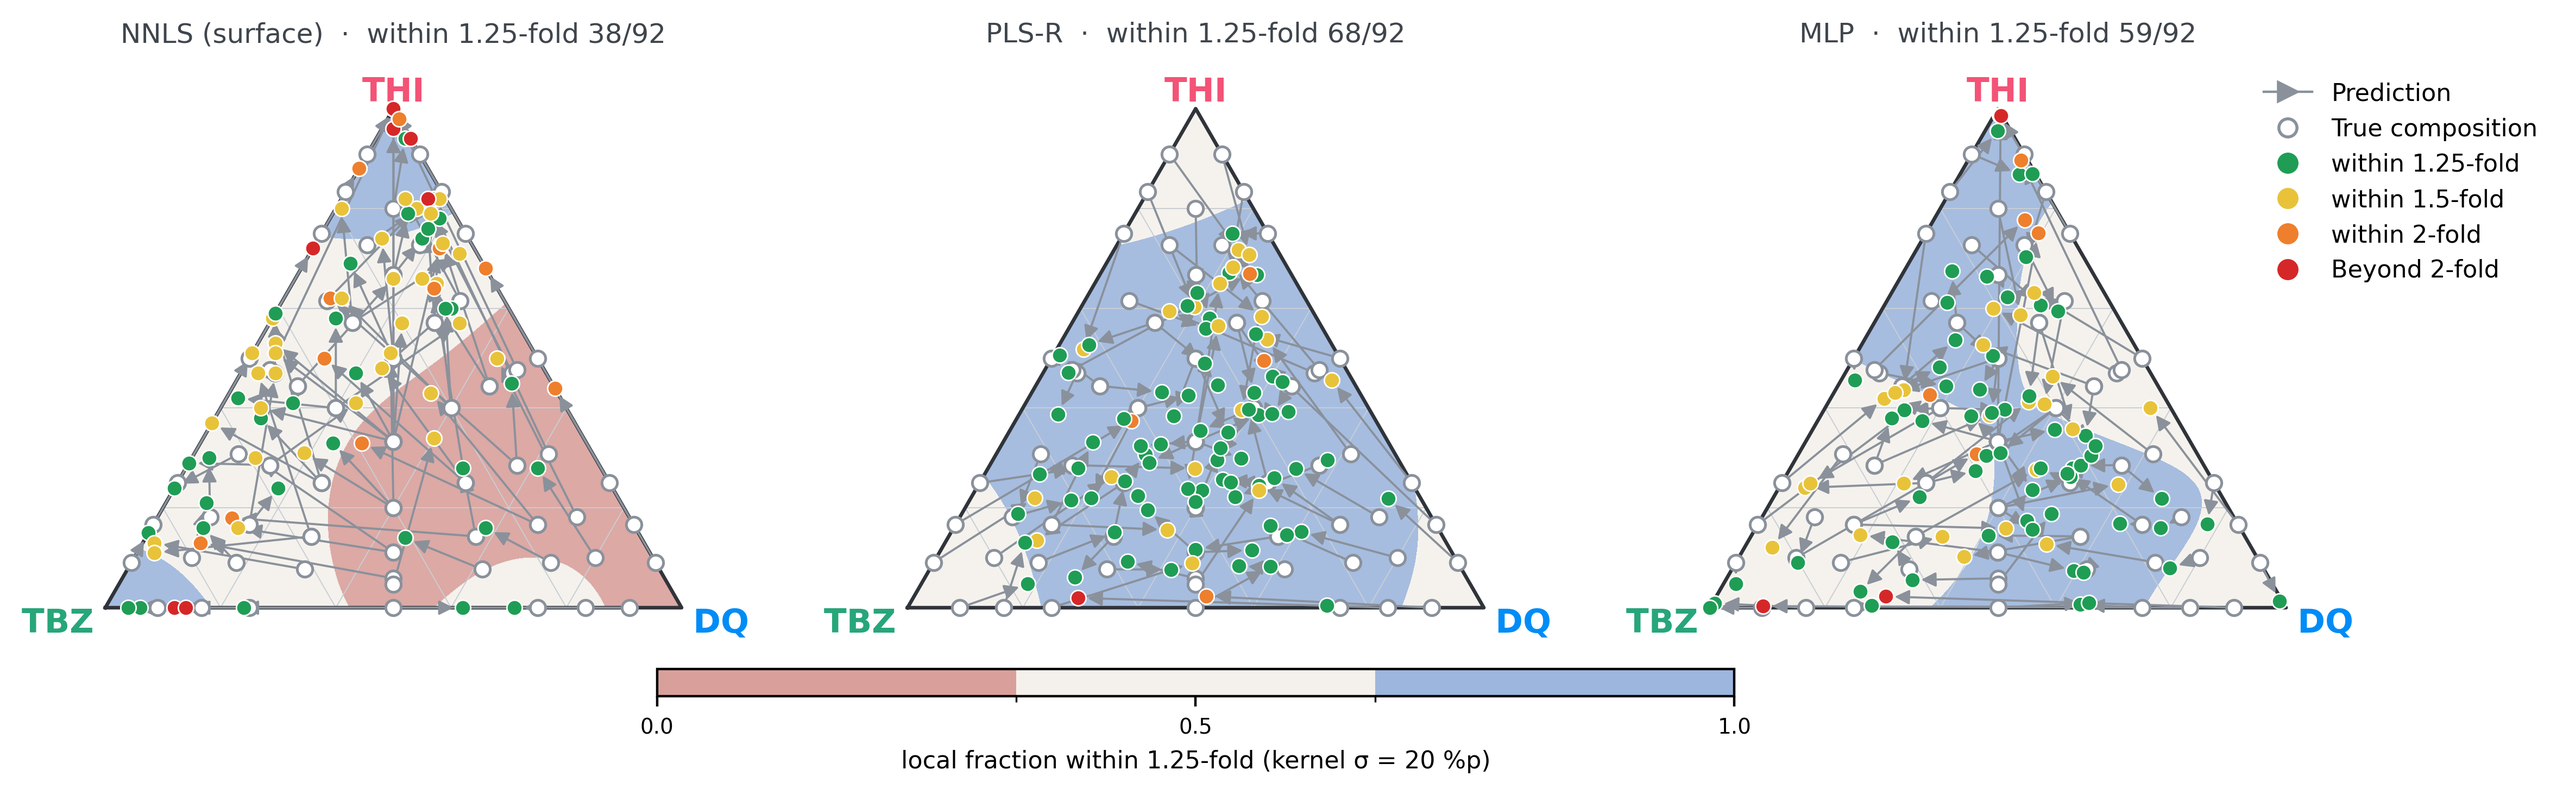
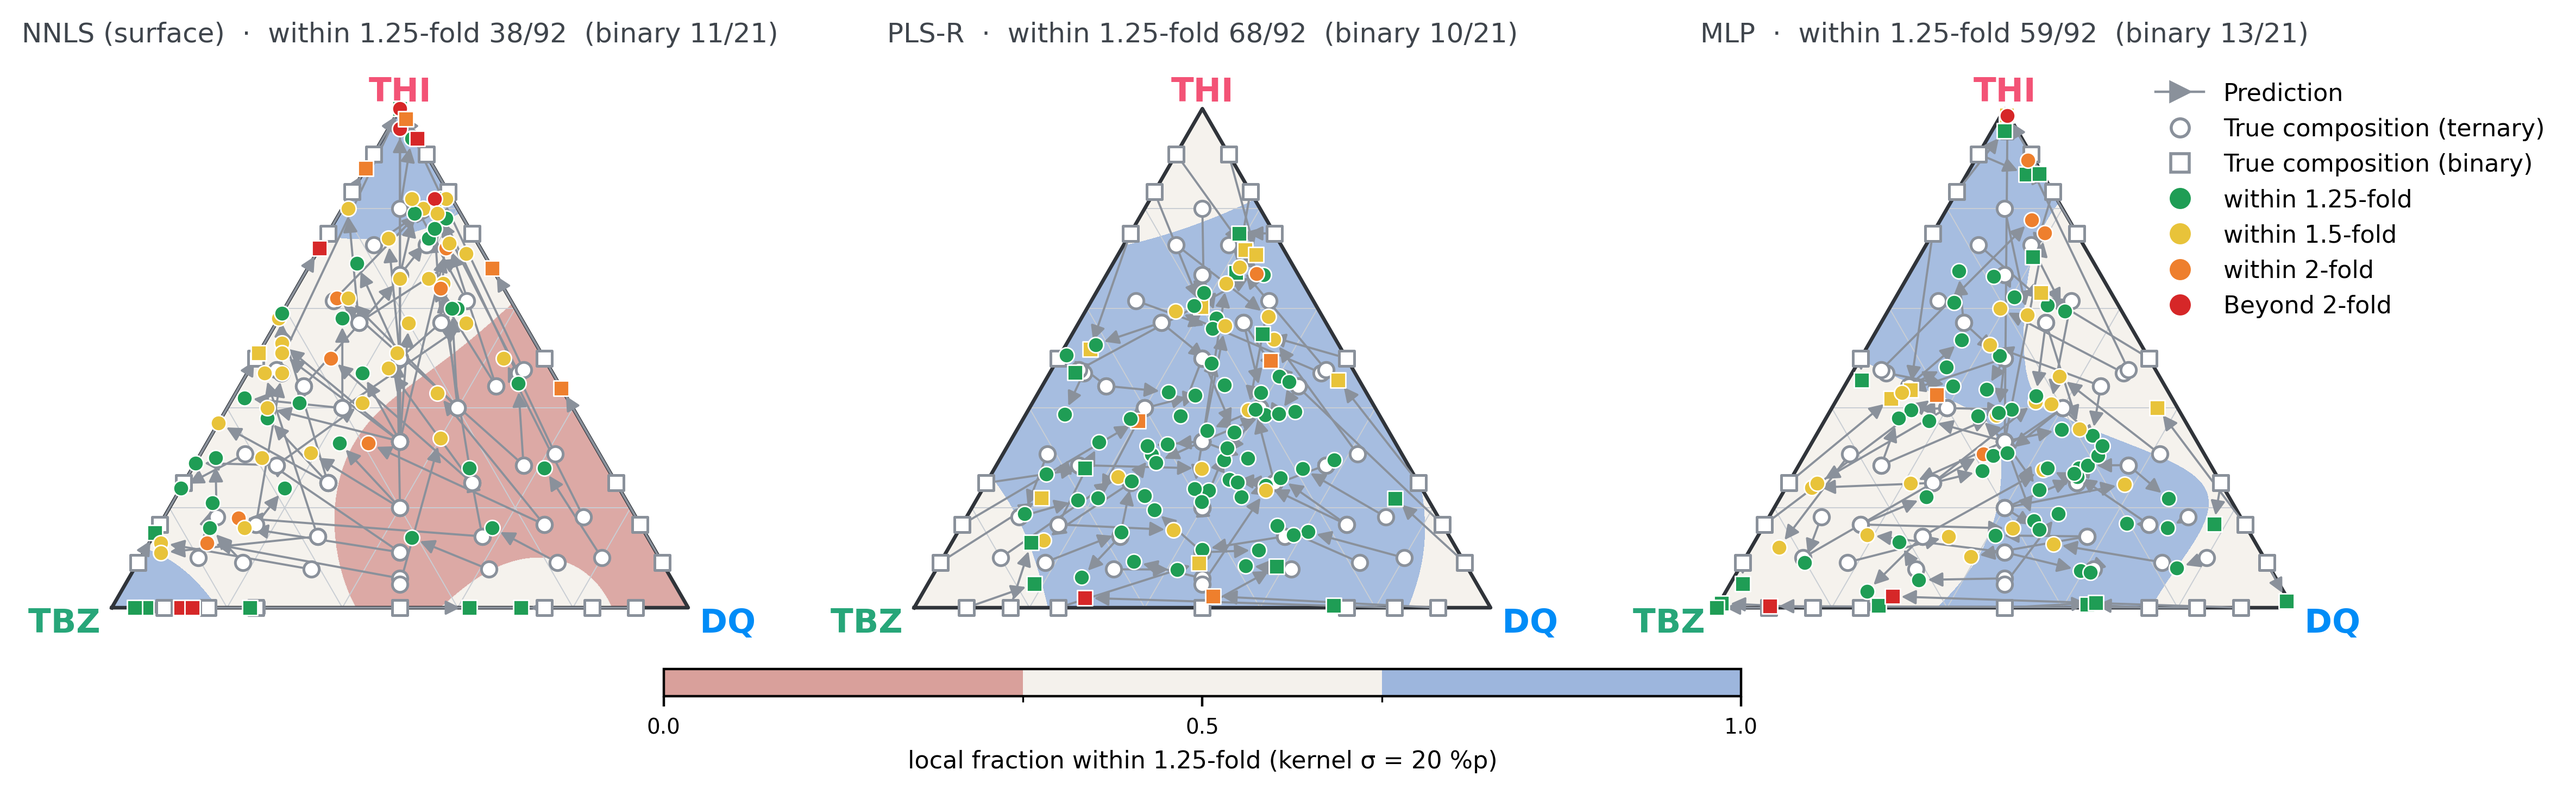
27g: binary conditions drawn as squares, per-panel binary tally in the title

diff --git a/documentation/scripts/fig27g_ternary_rb_background.py b/documentation/scripts/fig27g_ternary_rb_background.py
@@ -55,7 +55,8 @@ def load_pairs(method):
         if r["type"] == "true":
             cur = [r["condition"], np.array([float(r["DQ_pct_X"]), float(r["TBZ_pct_Y"]),
                                              float(r["THI_pct_Z"])]), None,
-                   float(r["accuracy"]) if r.get("accuracy", "").strip() else float("nan")]
+                   float(r["accuracy"]) if r.get("accuracy", "").strip() else float("nan"),
+                   r.get("subset", "").strip()]
         elif r["type"] == "pred" and cur is not None:
             cur[2] = np.array([float(r["DQ_pct_X"]), float(r["TBZ_pct_Y"]),
                                float(r["THI_pct_Z"])])
@@ -101,8 +102,8 @@ def field(pairs, sigma):
     grid = [(d, t, 100 - d - t) for d in np.arange(0, 100 + step, step)
             for t in np.arange(0, 100 + step - d, step)]
     G = np.array(grid, float)
-    T = np.array([t for _, t, _, _ in pairs])
-    C = np.array([1.0 if band(t, p, a) <= CORRECT_BAND else 0.0 for _, t, p, a in pairs])
+    T = np.array([t for _, t, _, _, _ in pairs])
+    C = np.array([1.0 if band(t, p, a) <= CORRECT_BAND else 0.0 for _, t, p, a, _ in pairs])
     d2 = ((G[:, None, :] - T[None, :, :]) ** 2).sum(-1)
     w = np.exp(-0.5 * d2 / sigma ** 2)
     dens = w.sum(1)
@@ -132,14 +133,15 @@ def draw(ax, method, pairs, sigma, title):
                      ((0, 100 - k, k), (100 - k, 0, k))):
             x, y = to_xy(np.array([a, b], float))
             ax.plot(x, y, color="#c9ced4", lw=0.35, zorder=1)
-    for _, t, p, acc in pairs:
+    for _, t, p, acc, sub in pairs:
         tx, ty = to_xy(t); px, py = to_xy(p)
+        mk = "s" if sub == "binary" else "o"          # binary(부재 성분 있음) = 사각
         ax.annotate("", xy=(px, py), xytext=(tx, ty),
                     arrowprops=dict(arrowstyle="-|>", color="#8a919b", lw=0.7,
                                     shrinkA=3, shrinkB=3), zorder=4)
-        ax.scatter([tx], [ty], s=26, facecolor="white", edgecolor="#8a919b",
+        ax.scatter([tx], [ty], s=26, marker=mk, facecolor="white", edgecolor="#8a919b",
                    linewidth=0.9, zorder=5)
-        ax.scatter([px], [py], s=26, color=BAND_COLORS[band(t, p, acc)],
+        ax.scatter([px], [py], s=26, marker=mk, color=BAND_COLORS[band(t, p, acc)],
                    edgecolor="white", linewidth=0.5, zorder=6)
     ax.text(*to_xy(np.array([0, 0, 100.0])), "THI", color=CO["THI"], ha="center",
             va="bottom", fontsize=11, weight="bold")
@@ -147,8 +149,11 @@ def draw(ax, method, pairs, sigma, title):
             va="top", fontsize=11, weight="bold")
     ax.text(*to_xy(np.array([100.0, 0, 0])), " DQ", color=CO["DQ"], ha="left",
             va="top", fontsize=11, weight="bold")
-    ok = sum(band(t, p, a) <= CORRECT_BAND for _, t, p, a in pairs)
-    ax.set_title(f"{title}  ·  within {BAND_LABEL[CORRECT_BAND]} {ok}/{len(pairs)}", fontsize=9,
+    ok = sum(band(t, p, a) <= CORRECT_BAND for _, t, p, a, _ in pairs)
+    okb = sum(band(t, p, a) <= CORRECT_BAND for _, t, p, a, sb in pairs if sb == "binary")
+    nb_ = sum(1 for *_, sb in pairs if sb == "binary")
+    ax.set_title(f"{title}  ·  within {BAND_LABEL[CORRECT_BAND]} {ok}/{len(pairs)}"
+                 + (f"  (binary {okb}/{nb_})" if nb_ else ""), fontsize=9,
                  color="#3f454c")
     ax.set_xlim(-0.08, 1.08); ax.set_ylim(-0.08, 0.95)
     ax.set_aspect("equal"); ax.set_axis_off()
@@ -186,7 +191,9 @@ def main():
         print(f"{m}: {len(pairs)} pairs · field mean {frac[dens > 0.05 * dens.max()].mean():.2f}")
     handles = [Line2D([], [], marker=">", color="#8a919b", lw=0.8, label="Prediction"),
                Line2D([], [], marker="o", ls="none", mfc="white", mec="#8a919b",
-                      label="True composition")]
+                      label="True composition (ternary)"),
+               Line2D([], [], marker="s", ls="none", mfc="white", mec="#8a919b",
+                      label="True composition (binary)")]
     handles += [Line2D([], [], marker="o", ls="none", color=c, label=n)
                 for c, n in zip(BAND_COLORS, BAND_NAMES)]
     axes[2].legend(handles=handles, loc="upper right", bbox_to_anchor=(1.34, 1.0),
